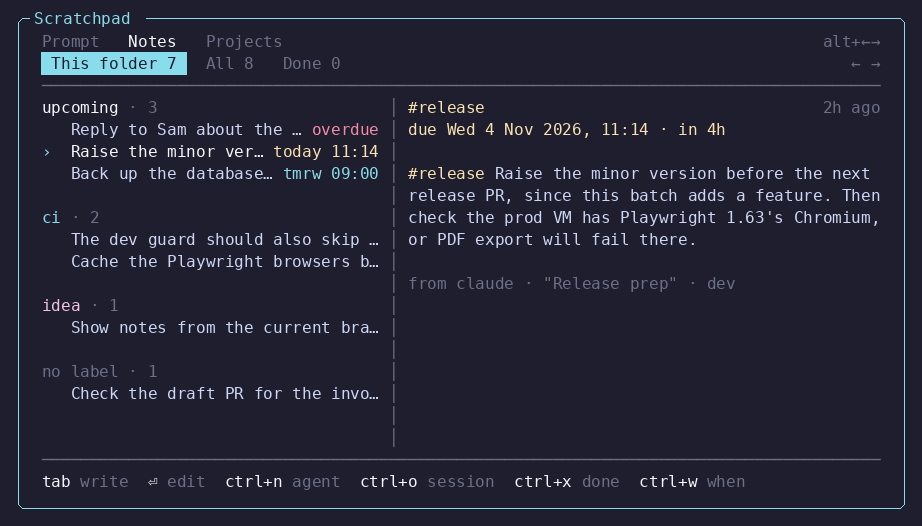
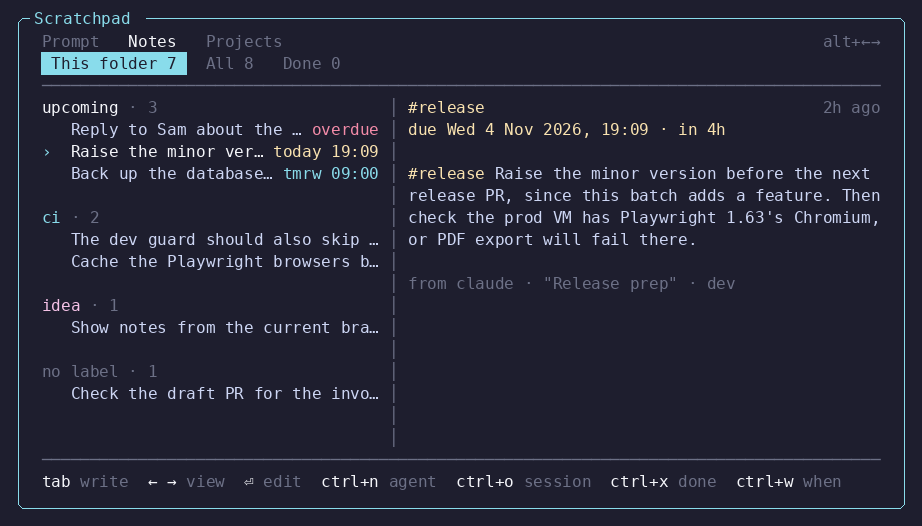
Move the view-switch hint from the notes tab row to the footer
The tab strip already shows alt+←→ at the top, so a second arrow hint
right below it read as the same thing.

Changed region(s): [[0.1822, 0.9125, 0.9111, 0.943], [0.6681, 0.2129, 0.6985, 0.2738], [0.3644, 0.2738, 0.4252, 0.3042]]

diff --git a/bin/popup.js b/bin/popup.js
@@ -232,7 +232,7 @@ function tabRow(width) {
     const text = `${tab.label} ${state.counts[i] ?? 0}`;
     return i === state.tab ? style.selected(` ${text} `) : ` ${style.dim(text)} `;
   }).join(" ");
-  return spread(row, style.dim("← →"), width);
+  return row;
 }
 
 // The left column: label headings with their notes underneath.
@@ -288,10 +288,11 @@ function emptyLines() {
 function notesHints(width) {
   if (state.notice) return style.warn(state.notice);
   if (state.confirmDelete) return style.warn(`ctrl+d again deletes ${plural(targets().length, "note")} · any other key keeps them`);
-  if (!current()) return keys([["tab", "write"], ["← →", "folders"], ["esc", "close"]]);
+  if (!current()) return keys([["tab", "write"], ["← →", "view"], ["esc", "close"]]);
   const src = current().source ?? {};
   return keys([
     ["tab", "write"],
+    ["← →", "view"],
     ["⏎", "edit"],
     ["ctrl+n", "agent"],
     src.session && RESUME_ARGS[src.agent] && ["ctrl+o", "session"],
